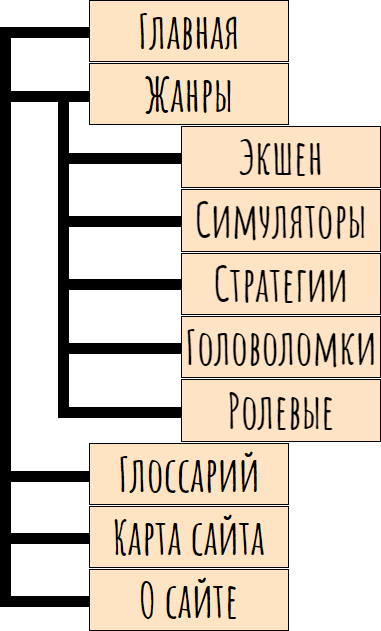
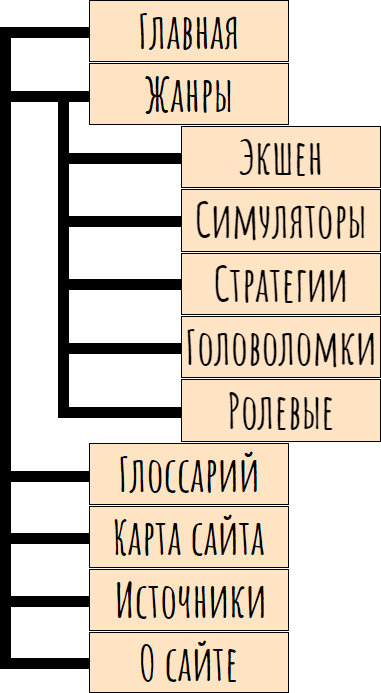
gf

Changed region(s): [[0.0289, 0.0, 1.0, 1.0], [0.0, 0.9334, 0.231, 0.9937], [0.0, 0.0301, 0.231, 0.0602]]

diff --git a/action.html b/action.html
@@ -33,6 +33,7 @@
 					</li>
 					<li><a href="glossary.html">Глоссарий</a></li>
 					<li><a href="map.html">Карта сайта</a></li>
+					<li><a href="sources.html">Источники</a></li>
 					<li><a href="about.html">О сайте</a></li>
 				</ul>
 			</nav>
@@ -42,11 +43,11 @@
 		<div class="container">
 			<h1>Экшен (Action)</h1>
 			<p>
-				Экшен (action в переводе с англ. — «действие») — жанр компьютерных игр, в котором делается упор на эксплуатацию физических возможностей игрока, в том числе координации глаз и рук и скорости реакции.
+				Экшен (action в переводе с англ. — «действие») — жанр компьютерных игр, в котором делается упор на эксплуатацию физических возможностей игрока, в том числе координации глаз и рук и скорости реакции.[1]
 			</p>
             <h2>Шутеры</h2>
             <p>
-                <strong>Шу́тер</strong> (Стрелялка, англ. shooter — «стрелок») — жанр компьютерных игр. На момент зарождения жанра за рубежом укрепилось слово «шутер», как вариант описания игрового процесса и перевод для слова shooter, в России и некоторых других странах постсоветского пространства жанр изначально был назван как «стрелялка».
+                <strong>Шу́тер</strong> (Стрелялка, англ. shooter — «стрелок») — жанр компьютерных игр. На момент зарождения жанра за рубежом укрепилось слово «шутер», как вариант описания игрового процесса и перевод для слова shooter, в России и некоторых других странах постсоветского пространства жанр изначально был назван как «стрелялка».[2]
 			</p>
 			<ul class="pictures">
 				<li><img class="picture" src="img/shooter1.jpg" alt="picture"></li>
@@ -55,11 +56,11 @@
 				<li><img class="picture" src="img/shooter4.jpg" alt="picture"></li>
 			</ul>
 			<p>
-				Главное действие — уничтожение всего, что движется. Количество боеприпасов почти всегда неограниченное, поэтому стрельбу можно вести постоянно. Камера может быть двух видов: вид сверху (тогда герой либо находится в центре экрана, а со всех сторон прут враги («Alien Shooter»), либо он движется вперед с постоянной скоростью, тем самым в границы экрана попадают всё новые и новые враги ) или вид из глаз (при этом герой либо всегда стоит на месте («Moorhuhn»), либо автоматически передвигается на новую позицию, после уничтожения всех врагов на текущем месте («House of the Dead»).
+				Главное действие — уничтожение всего, что движется. Количество боеприпасов почти всегда неограниченное, поэтому стрельбу можно вести постоянно. Камера может быть двух видов: вид сверху (тогда герой либо находится в центре экрана, а со всех сторон прут враги («Alien Shooter»), либо он движется вперед с постоянной скоростью, тем самым в границы экрана попадают всё новые и новые враги ) или вид из глаз (при этом герой либо всегда стоит на месте («Moorhuhn»), либо автоматически передвигается на новую позицию, после уничтожения всех врагов на текущем месте («House of the Dead»).[3]
 			</p>
 			<h2>Стелс</h2>
 			<p>
-				<strong>Стелс</strong> (англ. stealth «невидимка; скрытность») — жанр компьютерных игр, в которых игрок должен избегать обнаружения игрового персонажа противниками или скрытно устранять их, не привлекая к себе внимания. Чтобы остаться незамеченным в этих играх, игровой персонаж должен прятаться от врагов, использовать маскировку и не создавать шума. Многие игры предоставляют игроку выбор — атаковать врагов открыто или сохранить скрытность; тем не менее, большинство игр поощряют игрока за сохранение максимально возможной степени скрытности. В играх жанра используются мотивы шпионажа, контртерроризма и преступности. Протагонистами могут быть оперативники подразделений специального назначения, шпионы, воры, ниндзя, ассасины. В некоторых играх стелс-элементы комбинируется с геймплеем других жанров, например с шутерами от первого лица и даже с платформерами.
+				<strong>Стелс</strong> (англ. stealth «невидимка; скрытность») — жанр компьютерных игр, в которых игрок должен избегать обнаружения игрового персонажа противниками или скрытно устранять их, не привлекая к себе внимания. Чтобы остаться незамеченным в этих играх, игровой персонаж должен прятаться от врагов, использовать маскировку и не создавать шума. Многие игры предоставляют игроку выбор — атаковать врагов открыто или сохранить скрытность; тем не менее, большинство игр поощряют игрока за сохранение максимально возможной степени скрытности. В играх жанра используются мотивы шпионажа, контртерроризма и преступности. Протагонистами могут быть оперативники подразделений специального назначения, шпионы, воры, ниндзя, ассасины. В некоторых играх стелс-элементы комбинируется с геймплеем других жанров, например с шутерами от первого лица и даже с платформерами.[4]
 			</p>
 			<ul class="pictures">
 				<li><img class="picture" src="img/stealh1.jpg" alt="picture"></li>
@@ -68,11 +69,11 @@
 				<li><img class="picture" src="img/stealh4.jpg" alt="picture"></li>
 			</ul>
 			<p>
-				В отличие от большинства экшн-игр, в играх жанра стелс обычно необходимо избегать обнаружения врагом. Основными элементами геймплея современных стелс-игр являются разные способы уклониться от стычек с врагом, создание максимальной бесшумности, а также эффект неожиданности при атаке врагов из теней. Обычным делом в этих играх является выполнение заданий, оставаясь незамеченным врагом, что некоторые критики описывают как «призрачность». Несмотря на то, что в отдельных играх скрытность может быть единственным способом выиграть, в большинстве игр обычно предусматриваются другие способы и стили достижения поставленной задачи. Игроки могут прятаться за предметами или скрываться в тенях, а при встрече с врагом могут или атаковать его, или незаметно проскользнуть мимо. Если игрок будет обнаружен врагом, обычно требуется спрятаться на некоторое время, пока враги не прекратят поиск. Таким образом, важность приобретают планирование и метод проб и ошибок. Однако, в некоторых стелс-играх придаётся важность мастерству рукопашного боя, которое становится полезным в случае обнаружения персонажа врагом. В некоторых играх игрок может выбирать между убийством врагов или простым его оглушением. Если «призрачность» необязательна для прохождения, либо в недостаточной степени реализована в игре, игроки все же могут пробовать избегать сражений по моральным причинам или для демонстрации своего мастерства.
+				В отличие от большинства экшн-игр, в играх жанра стелс обычно необходимо избегать обнаружения врагом. Основными элементами геймплея современных стелс-игр являются разные способы уклониться от стычек с врагом, создание максимальной бесшумности, а также эффект неожиданности при атаке врагов из теней. Обычным делом в этих играх является выполнение заданий, оставаясь незамеченным врагом, что некоторые критики описывают как «призрачность». Несмотря на то, что в отдельных играх скрытность может быть единственным способом выиграть, в большинстве игр обычно предусматриваются другие способы и стили достижения поставленной задачи. Игроки могут прятаться за предметами или скрываться в тенях, а при встрече с врагом могут или атаковать его, или незаметно проскользнуть мимо. Если игрок будет обнаружен врагом, обычно требуется спрятаться на некоторое время, пока враги не прекратят поиск. Таким образом, важность приобретают планирование и метод проб и ошибок. Однако, в некоторых стелс-играх придаётся важность мастерству рукопашного боя, которое становится полезным в случае обнаружения персонажа врагом. В некоторых играх игрок может выбирать между убийством врагов или простым его оглушением. Если «призрачность» необязательна для прохождения, либо в недостаточной степени реализована в игре, игроки все же могут пробовать избегать сражений по моральным причинам или для демонстрации своего мастерства.[5]
 			</p>
+			<h2>Аркады</h2>
 			<p>
-				<h2>Аркады</h2>
-				<strong>Аркада</strong> (англ. arcade game, arcade genre) — жанр компьютерных игр, характеризующийся коротким по времени, но интенсивным игровым процессом.
+				<strong>Аркада</strong> (англ. arcade game, arcade genre) — жанр компьютерных игр, характеризующийся коротким по времени, но интенсивным игровым процессом.[6]
 			</p>
 			<ul class="pictures">
 				<li><img class="picture" src="img/arcade1.jpg" alt="picture"></li>
@@ -81,11 +82,12 @@
 				<li><img class="picture" src="img/arcade4.jpg" alt="picture"></li>
 			</ul>
 			<p>
-				Появление слова «аркада» связано с простейшими игровыми автоматами, игры которых пытались выделить в жанр. Слово «аркада» используется и как прилагательное к другим жанрам, например: аркадный платформер, аркадный шутер, аркадные гонки. Под словом "аркадный" обычно понимают - нереалистичный, более простой чем в реальности. Это один из самых старых жанров. Эталонные игры этого жанра можно найти сейчас только на старых консолях. В настоящее время к этому жанру относятся только самые простые игры действия.<br> Главная задача - собрать все особые объекты на уровне (иногда бывают более спецефичные задачи: закрасить весь уровень, найти выход, попасть в определенную точку). Чаще всего вид сверху, реже - вид сбоку. Безмятежный процесс сбора вещей нарушается присутствием на уровнях врагов или ловушек. <br> Самым известным представителем этого жанра является игра "Pacman".	
+				Появление слова «аркада» связано с простейшими игровыми автоматами, игры которых пытались выделить в жанр. Слово «аркада» используется и как прилагательное к другим жанрам, например: аркадный платформер, аркадный шутер, аркадные гонки. Под словом "аркадный" обычно понимают - нереалистичный, более простой чем в реальности. Это один из самых старых жанров. Эталонные игры этого жанра можно найти сейчас только на старых консолях. В настоящее время к этому жанру относятся только самые простые игры действия.<br> Главная задача - собрать все особые объекты на уровне (иногда бывают более спецефичные задачи: закрасить весь уровень, найти выход, попасть в определенную точку). Чаще всего вид сверху, реже - вид сбоку. Безмятежный процесс сбора вещей нарушается присутствием на уровнях врагов или ловушек. <br> Самым известным представителем этого жанра является игра "Pacman".[7]
 			</p>
-			<p>
+			
 				<h2>Файтинги</h2>
-				<strong>Фáйтинг</strong> (от англ. Fighting — бой, драка, поединок, борьба) — жанр компьютерных игр, имитирующих рукопашный бой малого числа персонажей в пределах ограниченного пространства, называемого ареной.
+				<p>
+				<strong>Фáйтинг</strong> (от англ. Fighting — бой, драка, поединок, борьба) — жанр компьютерных игр, имитирующих рукопашный бой малого числа персонажей в пределах ограниченного пространства, называемого ареной.[8]
 			</p>
 			<ul class="pictures">
 				<li><img class="picture" src="img/fight1.jpg" alt="picture"></li>
@@ -94,11 +96,12 @@
 				<li><img class="picture" src="img/fight4.jpg" alt="picture"></li>
 			</ul>
 			<p>
-				Файтинги близки к играм жанра «Избей их всех», однако между ними существуют различия. Так, в большинстве файтингов игроку не требуется перемещаться по длинному уровню и нельзя выйти за границы арены, а бой состоит из нечётного числа отдельных раундов и не является непрерывным. Менее значительными и необязательно присутствующими признаками жанра являются использование многочисленных шкал для изображения жизненно важных показателей персонажей и прорисовка бойцов на арене в профиль.
+				Файтинги близки к играм жанра «Избей их всех», однако между ними существуют различия. Так, в большинстве файтингов игроку не требуется перемещаться по длинному уровню и нельзя выйти за границы арены, а бой состоит из нечётного числа отдельных раундов и не является непрерывным. Менее значительными и необязательно присутствующими признаками жанра являются использование многочисленных шкал для изображения жизненно важных показателей персонажей и прорисовка бойцов на арене в профиль.[9]
 			</p>
-			<p>
+			
 				<h2>Action-adventure (приключенческий боевик)</h2>
-				<strong>Action-adventure</strong>, или <strong>приключенческий боевик</strong> — смешанный жанр компьютерных игр, сочетающий элементы квеста и экшена. 
+				<p>
+				<strong>Action-adventure</strong>, или <strong>приключенческий боевик</strong> — смешанный жанр компьютерных игр, сочетающий элементы квеста и экшена.[10]
 			</p>
 			<ul class="pictures">
 				<li><img class="picture" src="img/adventure1.jpg" alt="picture"></li>
@@ -107,7 +110,7 @@
 				<li><img class="picture" src="img/adventure4.jpg" alt="picture"></li>
 			</ul>
 			<p>
-				Подобные игры предлагают игроку преодолевать препятствия как интеллектуального, так и физического рода, например, испытания игрока на выносливость или скорость реакции; само определение того, когда такая игра перестает быть квестом и превращается в чистую action-игру, является лишь вопросом интерпретации. К элементам квеста могут принадлежать головоломки; сюжет, многочисленные персонажи, диалоги между ними, инвентарь для собранных предметов и другие приметы жанра квестов. При этом по сравнению с квестами action-adventure в большой степени опираются на перемещение персонажа в виртуальном мире игры — это относится и к геймплею, в котором могут преобладать сражения, и к сюжету: перемещение заставляет запускаться сюжетные сцены, в соответствии с которыми меняется темп игры и контекст действий игрока.
+				Подобные игры предлагают игроку преодолевать препятствия как интеллектуального, так и физического рода, например, испытания игрока на выносливость или скорость реакции; само определение того, когда такая игра перестает быть квестом и превращается в чистую action-игру, является лишь вопросом интерпретации. К элементам квеста могут принадлежать головоломки; сюжет, многочисленные персонажи, диалоги между ними, инвентарь для собранных предметов и другие приметы жанра квестов. При этом по сравнению с квестами action-adventure в большой степени опираются на перемещение персонажа в виртуальном мире игры — это относится и к геймплею, в котором могут преобладать сражения, и к сюжету: перемещение заставляет запускаться сюжетные сцены, в соответствии с которыми меняется темп игры и контекст действий игрока.[11]
 			</p>
 		</div>
 	</main>

diff --git a/role.html b/role.html
@@ -33,6 +33,7 @@
 					</li>
 					<li><a href="glossary.html">Глоссарий</a></li>
 					<li><a href="map.html">Карта сайта</a></li>
+					<li><a href="sources.html">Источники</a></li>
 					<li><a href="about.html">О сайте</a></li>
 				</ul>
 			</nav>
@@ -42,11 +43,11 @@
 		<div class="container">
 			<h1>Ролевые</h1>
             <p>
-                <strong>Ролевые</strong> (англ. Computer Role-Playing Game, обозначается аббревиатурой CRPG или RPG) — жанр компьютерных игр, основанный на элементах игрового процесса традиционных настольных ролевых игр. В ролевой игре игрок управляет одним или несколькими персонажами, каждый из которых описан набором численных характеристик, списком способностей и умений; примерами таких характеристик могут быть хит-пойнты (англ. hit points, HP), показатели силы, ловкости, интеллекта, защиты, уклонения, уровень развития того или иного навыка и т. п.
+                <strong>Ролевые</strong> (англ. Computer Role-Playing Game, обозначается аббревиатурой CRPG или RPG) — жанр компьютерных игр, основанный на элементах игрового процесса традиционных настольных ролевых игр. В ролевой игре игрок управляет одним или несколькими персонажами, каждый из которых описан набором численных характеристик, списком способностей и умений; примерами таких характеристик могут быть хит-пойнты (англ. hit points, HP), показатели силы, ловкости, интеллекта, защиты, уклонения, уровень развития того или иного навыка и т. п.[25]
             </p>
             <h2>Настольные</h2>
             <p>
-                <strong>Настольные игры</strong> — вид ролевой игры, в которой участники устно описывают действия своих персонажей, опираясь на их особенности, и в котором успех действий зависит от игровой системы.
+                <strong>Настольные игры</strong> — вид ролевой игры, в которой участники устно описывают действия своих персонажей, опираясь на их особенности, и в котором успех действий зависит от игровой системы.[26]
             <p/>
             <ul class="pictures">
 				<li><img class="picture" src="img/table1.jpg" alt="picture"></li>
@@ -56,7 +57,7 @@
             <p></p>
             <h2>Инди</h2>
             <p>
-                <strong>Инди-игры</strong> (англ. Indie game, от англ. independent video game — «независимая компьютерная игра») — компьютерная игра, созданная отдельным разработчиком или небольшим коллективом без финансовой поддержки издателя компьютерных игр. Масштаб явлений, связанных с инди-играми, ощутимо возрастает со второй половины 2000-х годов, в основном ввиду развития новых способов цифровой дистрибуции и средств разработки.
+                <strong>Инди-игры</strong> (англ. Indie game, от англ. independent video game — «независимая компьютерная игра») — компьютерная игра, созданная отдельным разработчиком или небольшим коллективом без финансовой поддержки издателя компьютерных игр. Масштаб явлений, связанных с инди-играми, ощутимо возрастает со второй половины 2000-х годов, в основном ввиду развития новых способов цифровой дистрибуции и средств разработки.[27]
             </p>
             <ul class="pictures">
 				<li><img class="picture" src="img/indie1.jpg" alt="picture"></li>
@@ -66,7 +67,7 @@
             <p></p>
             <h2>Платформеры</h2>
             <p>
-                <strong>Платформер</strong> (англ. platformer, platform game) — жанр компьютерных игр, в которых основной чертой игрового процесса является прыгание по платформам, лазанье по лестницам, собирание предметов, обычно необходимых для завершения уровня. Некоторые предметы, называемые пауэр-апами (англ. power-up), наделяют управляемого игроком персонажа особой силой, которая обычно иссякает со временем (к примеру: силовое поле, ускорение, увеличение высоты прыжков). Коллекционные предметы, оружие и «пауэер-ап» собираются обычно простым прикосновением персонажа и для применения не требуют специальных действий со стороны игрока. Реже предметы собираются в «инвентарь» героя и применяются специальной командой (такое поведение более характерно для аркадных головоломок). Сходный жанр компьютерных игр сайд-скроллер.
+                <strong>Платформер</strong> (англ. platformer, platform game) — жанр компьютерных игр, в которых основной чертой игрового процесса является прыгание по платформам, лазанье по лестницам, собирание предметов, обычно необходимых для завершения уровня. Некоторые предметы, называемые пауэр-апами (англ. power-up), наделяют управляемого игроком персонажа особой силой, которая обычно иссякает со временем (к примеру: силовое поле, ускорение, увеличение высоты прыжков). Коллекционные предметы, оружие и «пауэер-ап» собираются обычно простым прикосновением персонажа и для применения не требуют специальных действий со стороны игрока. Реже предметы собираются в «инвентарь» героя и применяются специальной командой (такое поведение более характерно для аркадных головоломок). Сходный жанр компьютерных игр сайд-скроллер.[28]
             </p>
             <ul class="pictures">
 				<li><img class="picture" src="img/platformer1.jpg" alt="picture"></li>

diff --git a/strategies.html b/strategies.html
@@ -33,6 +33,7 @@
 					</li>
 					<li><a href="glossary.html">Глоссарий</a></li>
 					<li><a href="map.html">Карта сайта</a></li>
+					<li><a href="sources.html">Источники</a></li>
 					<li><a href="about.html">О сайте</a></li>
 				</ul>
 			</nav>
@@ -42,11 +43,11 @@
 		<div class="container">
 			<h1>Стратегии</h1>
             <p>
-                <strong>Стратегии</strong> - жанр, в котором залогом достижения победы является планирование и стратегическое мышление. Игрок управляет не одним персонажем, а целым подразделением, предприятием или даже вселенной.
+                <strong>Стратегии</strong> - жанр, в котором залогом достижения победы является планирование и стратегическое мышление. Игрок управляет не одним персонажем, а целым подразделением, предприятием или даже вселенной.[16]
             </p>
             <h2>Варгеймы</h2>
             <p>
-                <strong>Варгейм</strong> (от англ. «wargame» — рус. «военная игра») — разновидность стратегических игр, в частности, настольных и компьютерных. Варгеймы призваны имитировать в виде игры военные конфликты: как реальные, так и вымышленные.
+                <strong>Варгейм</strong> (от англ. «wargame» — рус. «военная игра») — разновидность стратегических игр, в частности, настольных и компьютерных. Варгеймы призваны имитировать в виде игры военные конфликты: как реальные, так и вымышленные.[17]
             </p>
             <ul class="pictures">
 				<li><img class="picture" src="img/war1.jpg" alt="picture"></li>
@@ -56,7 +57,7 @@
             <p></p>
             <h2>Пошаговые стратегии</h2>
             <p>
-                <strong>Поша́говая страте́гия</strong> (англ. Turn-Based Strategy, TBS) — поджанр компьютерных стратегических игр, в которых игровой процесс состоит из последовательности фиксированных моментов времени, именуемых ходами (или шагами), во время которых игроки совершают свои действия.
+                <strong>Поша́говая страте́гия</strong> (англ. Turn-Based Strategy, TBS) — поджанр компьютерных стратегических игр, в которых игровой процесс состоит из последовательности фиксированных моментов времени, именуемых ходами (или шагами), во время которых игроки совершают свои действия.[18]
             </p>
             <ul class="pictures">
 				<li><img class="picture" src="img/step1.jpg" alt="picture"></li>
@@ -66,7 +67,7 @@
             <p></p>
             <h2>Стратегия в реальном времени</h2>
             <p>
-                <strong>Страте́гия в реа́льном вре́мени</strong> (англ. real-time strategy, RTS) является жанром стратегических компьютерных игр, в которых отсутствует «очерёдность ходов» (в отличие от компьютерных или настольных пошаговых стратегий).
+                <strong>Страте́гия в реа́льном вре́мени</strong> (англ. real-time strategy, RTS) является жанром стратегических компьютерных игр, в которых отсутствует «очерёдность ходов» (в отличие от компьютерных или настольных пошаговых стратегий).[19]
             </p>
             <ul class="pictures">
 				<li><img class="picture" src="img/real1.jpg" alt="picture"></li>
@@ -76,7 +77,7 @@
 			<p></p>
 			<h2>Карточные стратегии</h2>
 			<p>
-				<strong>Карточные стратегии</strong> — это компьютерные версии настольных коллекционных карточных игр.
+				<strong>Карточные стратегии</strong> — это компьютерные версии настольных коллекционных карточных игр.[20]
 			</p>
 			<ul class="pictures">
 				<li><img class="picture" src="img/card1.jpg" alt="picture"></li>
@@ -86,7 +87,7 @@
 			<p></p>
 			<h2>Глобальные стратегии</h2>
 			<p>
-				<strong>Глобальная стратегия</strong> — вид компьютерных стратегических игр, в котором игрок принимает участие в целом периоде мировой истории, управляя государством; при этом игра учитывает различные факторы развития государств — экономический, военный, культурный, социальный и политический.
+				<strong>Глобальная стратегия</strong> — вид компьютерных стратегических игр, в котором игрок принимает участие в целом периоде мировой истории, управляя государством; при этом игра учитывает различные факторы развития государств — экономический, военный, культурный, социальный и политический.[21]
 			</p>
 			<ul class="pictures">
 				<li><img class="picture" src="img/global1.jpg" alt="picture"></li>

diff --git a/puzzle.html b/puzzle.html
@@ -33,6 +33,7 @@
 					</li>
 					<li><a href="glossary.html">Глоссарий</a></li>
 					<li><a href="map.html">Карта сайта</a></li>
+					<li><a href="sources.html">Источники</a></li>
 					<li><a href="about.html">О сайте</a></li>
 				</ul>
 			</nav>
@@ -42,11 +43,11 @@
 		<div class="container">
 			<h1>Головоломки</h1>
             <p>
-                <strong>Головоломки</strong> (англ. Puzzle) — название жанра компьютерных игр, целью которых является решение логических задач, требующих от игрока задействования логики, стратегии и интуиции.
+                <strong>Головоломки</strong> (англ. Puzzle) — название жанра компьютерных игр, целью которых является решение логических задач, требующих от игрока задействования логики, стратегии и интуиции.[22]
             </p>
             <h2>Квест</h2>
             <p>
-                <strong>Квест</strong> (англ. quest), или <strong>приключенческая игра</strong> (англ. adventure game) — один из основных жанров компьютерных игр, представляющий собой интерактивную историю с главным героем, управляемым игроком. Важнейшими элементами игры в жанре квеста являются собственно повествование и исследование мира, а ключевую роль в игровом процессе играют решение головоломок и задач, требующих от игрока умственных усилий. Такие характерные для других жанров компьютерных игр элементы, как бои, экономическое планирование и задачи, требующие от игрока скорости реакции и быстрых ответных действий, в квестах сведены к минимуму или вовсе отсутствуют. Игры, объединяющие в себе характерные признаки квестов и жанра action, выделяют в отдельный жанр — action-adventure.
+                <strong>Квест</strong> (англ. quest), или <strong>приключенческая игра</strong> (англ. adventure game) — один из основных жанров компьютерных игр, представляющий собой интерактивную историю с главным героем, управляемым игроком. Важнейшими элементами игры в жанре квеста являются собственно повествование и исследование мира, а ключевую роль в игровом процессе играют решение головоломок и задач, требующих от игрока умственных усилий. Такие характерные для других жанров компьютерных игр элементы, как бои, экономическое планирование и задачи, требующие от игрока скорости реакции и быстрых ответных действий, в квестах сведены к минимуму или вовсе отсутствуют. Игры, объединяющие в себе характерные признаки квестов и жанра action, выделяют в отдельный жанр — action-adventure.[23]
             <p/>
             <ul class="pictures">
 				<li><img class="picture" src="img/quest1.jpg" alt="picture"></li>
@@ -56,7 +57,7 @@
             <p></p>
             <h2>Пазлы</h2>
             <p>
-                <strong>Пазл</strong> (англ. jigsaw puzzle) — игра-головоломка, в которой требуется составить мозаику из множества фрагментов рисунка различной формы.
+                <strong>Пазл</strong> (англ. jigsaw puzzle) — игра-головоломка, в которой требуется составить мозаику из множества фрагментов рисунка различной формы.[24]
             </p>
             <ul class="pictures">
 				<li><img class="picture" src="img/puzzle1.jpg" alt="picture"></li>

diff --git a/simulator.html b/simulator.html
@@ -33,6 +33,7 @@
 					</li>
 					<li><a href="glossary.html">Глоссарий</a></li>
 					<li><a href="map.html">Карта сайта</a></li>
+					<li><a href="sources.html">Источники</a></li>
 					<li><a href="about.html">О сайте</a></li>
 				</ul>
 			</nav>
@@ -42,11 +43,11 @@
 		<div class="container">
 			<h1>Симуляторы</h1>
             <p>
-                <strong>Симуляторы</strong> — имитаторы, механические или компьютерные, имитирующие управление каким-либо процессом, аппаратом или транспортным средством. Чаще всего сейчас слово «симулятор» используется применительно к компьютерным программам (обычно играм).
+                <strong>Симуляторы</strong> — имитаторы, механические или компьютерные, имитирующие управление каким-либо процессом, аппаратом или транспортным средством. Чаще всего сейчас слово «симулятор» используется применительно к компьютерным программам (обычно играм).[12]
             </p>
             <h2>Симуляторы жизни</h2>
             <p>
-                <strong>Симулятор жизни</strong> (англ. life simulation game) — жанр компьютерных игр, в котором игрок управляет жизнью одного или нескольких виртуальных существ. Является поджанром жанра стратегий, симулятора бога или экономических симуляторов. Как правило, симуляторы жизни не имеют конкретной цели.
+                <strong>Симулятор жизни</strong> (англ. life simulation game) — жанр компьютерных игр, в котором игрок управляет жизнью одного или нескольких виртуальных существ. Является поджанром жанра стратегий, симулятора бога или экономических симуляторов. Как правило, симуляторы жизни не имеют конкретной цели.[13]
             <p/>
             <ul class="pictures">
 				<li><img class="picture" src="img/life2.jpg" alt="picture"></li>
@@ -55,7 +56,8 @@
             </ul>
             <p></p>
             <h2>Спортивные симуляторы</h2>
-            <p><strong>Спортивный симулятор</strong> — симулятор спортивных состязаний.</p>
+			<p><strong>Спортивный симулятор</strong> — симулятор спортивных состязаний.[14]
+			</p>
             <ul class="pictures">
 				<li><img class="picture" src="img/sport1.jpg" alt="picture"></li>
 				<li><img class="picture" src="img/sport2.jpg" alt="picture"></li>
@@ -64,7 +66,7 @@
             <p></p>
             <h2>Автосимуляторы</h2>
             <p>
-                <strong>Автосимуляторы</strong> — это не все гонки, в которых «игрок управляет автомобилем», как утверждает «Википедия». Это игры в первую очередь о гоночных трассах, заездах на время и более-менее реалистичной физике вождения авто.
+                <strong>Автосимуляторы</strong> — это не все гонки, в которых «игрок управляет автомобилем», как утверждает «Википедия». Это игры в первую очередь о гоночных трассах, заездах на время и более-менее реалистичной физике вождения авто.[15]
             </p>
             <ul class="pictures">
 				<li><img class="picture" src="img/avto1.jpg" alt="picture"></li>

diff --git a/index.html b/index.html
@@ -36,6 +36,7 @@
 					</li>
 					<li><a href="glossary.html">Глоссарий</a></li>
 					<li><a href="map.html">Карта сайта</a></li>
+					<li><a href="sources.html">Источники</a></li>
 					<li><a href="about.html">О сайте</a></li>
 				</ul>
 			</nav>
@@ -49,7 +50,7 @@
 				— компьютерная программа, служащая для организации игрового процесса (геймплея), связи с партнёрами по игре, или сама выступающая в качестве партнёра.
 			</p>
 			<p class="description">
-				В настоящее время в ряде случаев вместо компьютерная игра может использоваться видеоигра, то есть данные термины могут употребляться как синонимы и быть взаимозаменяемыми. В компьютерных играх, как правило, игровая ситуация воспроизводится на экране дисплея или обычного телевизора (в этом случае компьютерные игры одновременно являются и видеоиграми), но в то же время компьютерная игра может быть звуковой, телетайповой и др.
+				В настоящее время в ряде случаев вместо компьютерная игра может использоваться видеоигра, то есть данные термины могут употребляться как синонимы и быть взаимозаменяемыми. В компьютерных играх, как правило, игровая ситуация воспроизводится на экране дисплея или обычного телевизора (в этом случае компьютерные игры одновременно являются и видеоиграми), но в то же время компьютерная игра может быть звуковой, телетайповой и др.[0]
 			</p>
 			<p class="intro"><img class="map" src="img/intro.png" alt="intro"></p>
 		</div>

diff --git a/map.html b/map.html
@@ -32,6 +32,7 @@
 					</li>
 					<li><a href="glossary.html">Глоссарий</a></li>
 					<li><a href="map.html">Карта сайта</a></li>
+					<li><a href="sources.html">Источники</a></li>
 					<li><a href="about.html">О сайте</a></li>
 				</ul>
 			</nav>
@@ -53,7 +54,8 @@
 							<area shape="rect" coords="181,379,380,441" href="role.html" alt="role">
 							<area shape="rect" coords="89,443,288,504" href="glossary.html" alt="glossary">
 							<area shape="rect" coords="89,506,288,567" href="map.html" alt="map">
-							<area shape="rect" coords="89,569,288,630" href="about.html" alt="about">
+							<area shape="rect" coords="89,569,288,630" href="sources.html" alt="sources">
+							<area shape="rect" coords="89,632,288,692" href="about.html" alt="about">
 						</map>
 					</div>
 				</div>

diff --git a/glossary.html b/glossary.html
@@ -36,6 +36,7 @@
                                     </li>
                                     <li><a href="glossary.html">Глоссарий</a></li>
                                     <li><a href="map.html">Карта сайта</a></li>
+                                    <li><a href="sources.html">Источники</a></li>
                                     <li><a href="about.html">О сайте</a></li>
                                 </ul>
                             </nav>

diff --git a/css/style.css b/css/style.css
@@ -357,9 +357,23 @@ footer {
     border-top: 5px solid white;
     border-left: 5px solid white;
 }
+.sources {
+    display: inline-block;
+}
+.jeanar article {
+    display: flex;
+    justify-content: center;
+}
+.table_container {
+    width: 100%;
+}
+.table-body .container {
+    width: auto;
+}
 table {
     margin: 0 auto 20px auto;
 }
+
 @keyframes gif {
     from { left: -260px; }
     to {     left: 50%;

diff --git a/about.html b/about.html
@@ -33,6 +33,7 @@
 					</li>
 					<li><a href="glossary.html">Глоссарий</a></li>
 					<li><a href="map.html">Карта сайта</a></li>
+					<li><a href="sources.html">Источники</a></li>
 					<li><a href="about.html">О сайте</a></li>
 				</ul>
 			</nav>
